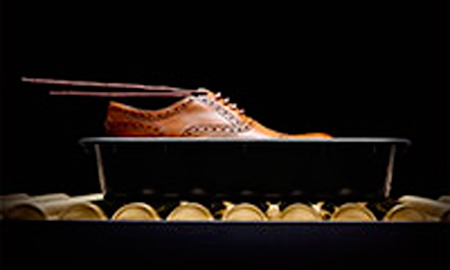
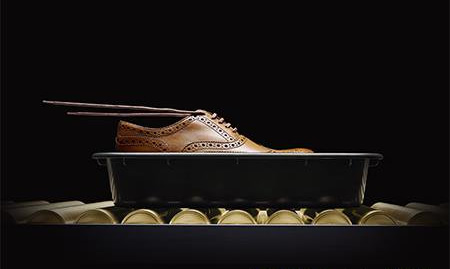
actualización de imagenes y estilos (ng-cloak)

Changed region(s): [[0.0, 0.2677, 1.0, 0.8625]]

diff --git a/star-alliance/pt.html b/star-alliance/pt.html
@@ -23,10 +23,10 @@
 							<img alt="{{ item.alt }}" title="{{ item.alt }}" ng-src="{{ item.imgSrc }}">
 						</div>
 						<div class="side2">
-							<h2>{{ item.title }}</h2>
-							<p>{{ item.description }}</p>
+							<h2 ng-cloak>{{ item.title }}</h2>
+							<p ng-cloak>{{ item.description }}</p>
 							<p></p> 
-							<a ng-href="{{ item.url }}" class="link_more">VER MAIS</a> 
+							<a ng-href="{{ item.url }}" class="link_more" target="_blank" rel="nofollow">VER MAIS</a> 
 						</div>
 					</div>
 				</div>
@@ -217,8 +217,8 @@
 	angular.module('copa').controller('starAllianceController', ['$scope', function($scope){
 		$scope.items = [
 			{
-				imgSrc: '/documents/20182/157353/mostrador_450.jpg',
-				alt: 'Kiosks',
+				imgSrc: '/documents/20182/157353/mas-y-mas-millas.jpg',
+				alt: 'Empenagems com o logotipo da Copa Airlines e da Star Alliance',
 				url: 'http://www.staralliance.com/pt/earn-and-redeem',
 				title: 'Mais e mais milhas',
 				description: 'Ganhe e resgate milhas com qualquer companhia aérea que seja membro da rede Star Alliance.'
@@ -232,14 +232,14 @@
 			},
 			{
 				imgSrc: '/documents/20182/157353/img-star-alliance-gold.jpg',
-				alt: 'Star Alliance Gold',
+				alt: 'Logotipo Star Alliance Gold',
 				url: 'http://www.staralliance.com/pt/gold-status',
 				title: 'Star Alliance Gold',
 				description: 'Na obtenção deste status, você recebe um reconhecimento exclusivo e todos os benefícios em sua viagem.'
 			}, 
 			{
 				imgSrc: '/documents/20182/157353/gold-track.jpg',
-				alt: 'Gold Trak',
+				alt: 'Passe mais depressa pelo controlo de segurança',
 				url: 'http://www.staralliance.com/pt/gold-track',
 				title: 'Gold Track',
 				description: 'Aceleramos sua passagem pelos controles de segurança do aeroporto em pontos onde visualizar o logo Gold Track.'

diff --git a/star-alliance/es.html b/star-alliance/es.html
@@ -22,10 +22,10 @@
 							<img alt="{{ item.alt }}" title="{{ item.alt }}" ng-src="{{ item.imgSrc }}">
 						</div>
 						<div class="side2">
-							<h2>{{ item.title }}</h2>
-							<p>{{ item.description }}</p>
+							<h2 ng-cloak>{{ item.title }}</h2>
+							<p ng-cloak>{{ item.description }}</p>
 							<p></p> 
-							<a ng-href="{{ item.url }}" class="link_more">VER MÁS</a> 
+							<a ng-href="{{ item.url }}" class="link_more" target="_blank" rel="nofollow">VER MÁS</a> 
 						</div>
 					</div>
 				</div>
@@ -222,8 +222,8 @@
 	angular.module('copa').controller('starAllianceController', ['$scope', function($scope){
 		$scope.items = [
 			{
-				imgSrc: '/documents/20182/157353/mostrador_450.jpg',
-				alt: 'Kiosks',
+				imgSrc: '/documents/20182/157353/mas-y-mas-millas.jpg',
+				alt: 'Colas de avión con logos de Copa Airlines y StarAlliance',
 				url: 'http://www.staralliance.com/es/earn-and-redeem',
 				title: 'Más y más millas',
 				description: 'Acumule y canjee millas aéreas con cualquier aerolínea miembro de la red Star Alliance.'
@@ -237,14 +237,14 @@
 			},
 			{
 				imgSrc: '/documents/20182/157353/img-star-alliance-gold.jpg',
-				alt: 'Star Alliance Gold',
+				alt: 'Logo Star Alliance Gold',
 				url: 'http://www.staralliance.com/es/gold-status',
 				title: 'Star Alliance Gold',
 				description: 'Al obtener este status, reciba un reconocimiento único y todos los beneficios cuando viaja.'
 			}, 
 			{
 				imgSrc: '/documents/20182/157353/gold-track.jpg',
-				alt: 'Gold Trak',
+				alt: 'Acelere su paso por el control de seguridad',
 				url: 'http://www.staralliance.com/es/gold-track',
 				title: 'Gold Track',
 				description: 'Aceleramos su paso por la seguridad del aeropuerto en los puntos donde vea nuestro logo de Gold Track.'

diff --git a/star-alliance/en.html b/star-alliance/en.html
@@ -30,7 +30,7 @@
 						<h2 ng-cloak>{{ item.title }}</h2>
 						<p ng-cloak>{{ item.description }}</p>
 						<p></p> 
-						<a ng-href="{{ item.url }}" class="link_more">SEE MORE</a> 
+						<a ng-href="{{ item.url }}" class="link_more" target="_blank" rel="nofollow">SEE MORE</a> 
 					</div>
 				</div>
 			</div>
@@ -202,8 +202,8 @@
 	angular.module('copa').controller('starAllianceController', ['$scope', function($scope){
 		$scope.items = [
 			{
-				imgSrc: '/documents/20182/157353/mostrador_450.jpg',
-				alt: 'Kiosks',
+				imgSrc: '/documents/20182/157353/mas-y-mas-millas.jpg',
+				alt: 'Empennages with Copa Airlines and Star Alliance logo',
 				url: 'http://www.staralliance.com/en/earn-and-redeem',
 				title: 'More and more miles',
 				description: 'Earn and redeem air miles with any member airlines within the Star Alliance network.'
@@ -217,14 +217,14 @@
 			},
 			{
 				imgSrc: '/documents/20182/157353/img-star-alliance-gold.jpg',
-				alt: 'Star Alliance Gold',
+				alt: 'Star Alliance Gold logo',
 				url: 'http://www.staralliance.com/en/gold-status',
 				title: 'Star Alliance Gold',
 				description: 'Upon achieving this status, you receive unique recognition and full benefits when traveling.'
 			}, 
 			{
 				imgSrc: '/documents/20182/157353/gold-track.jpg',
-				alt: 'Gold Trak',
+				alt: 'Speed through security',
 				url: 'http://www.staralliance.com/en/gold-track',
 				title: 'Gold Track',
 				description: 'Wherever you see our Gold Track logo, we’ll speed you through the airport security.'

diff --git a/star-alliance/styles.css b/star-alliance/styles.css
@@ -40,6 +40,10 @@ ul.items > li{
 
  ul.star-alliance-members > li { margin-right: 10px }
 
+[ng\:cloak], [ng-cloak], [data-ng-cloak], [x-ng-cloak], .ng-cloak, .x-ng-cloak {
+  display: none !important;
+}
+
 @media (orientation: portrait){
 	
 	ul.items > li { 
